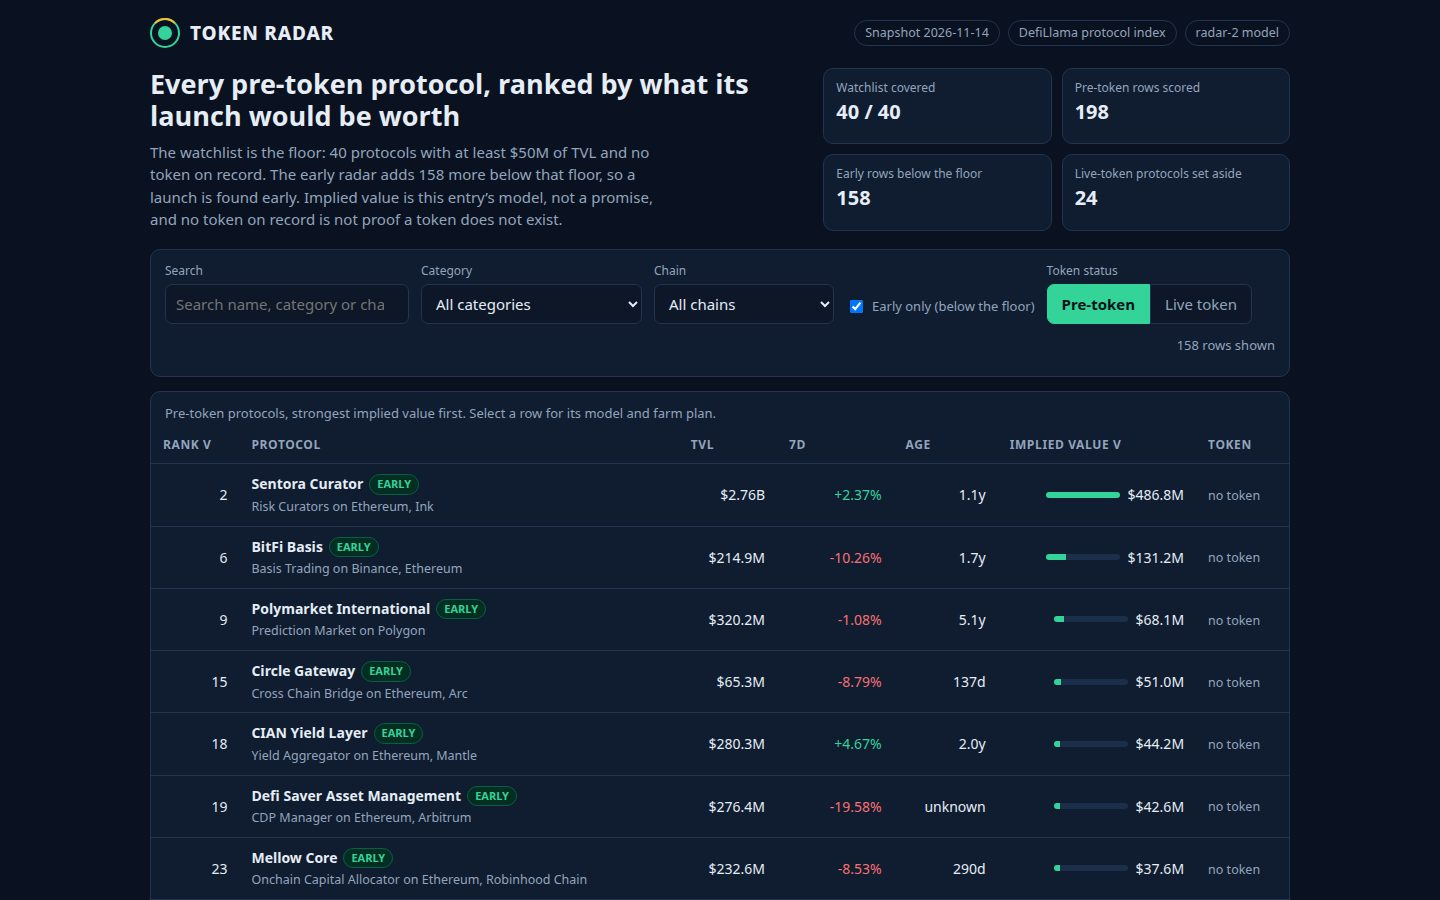
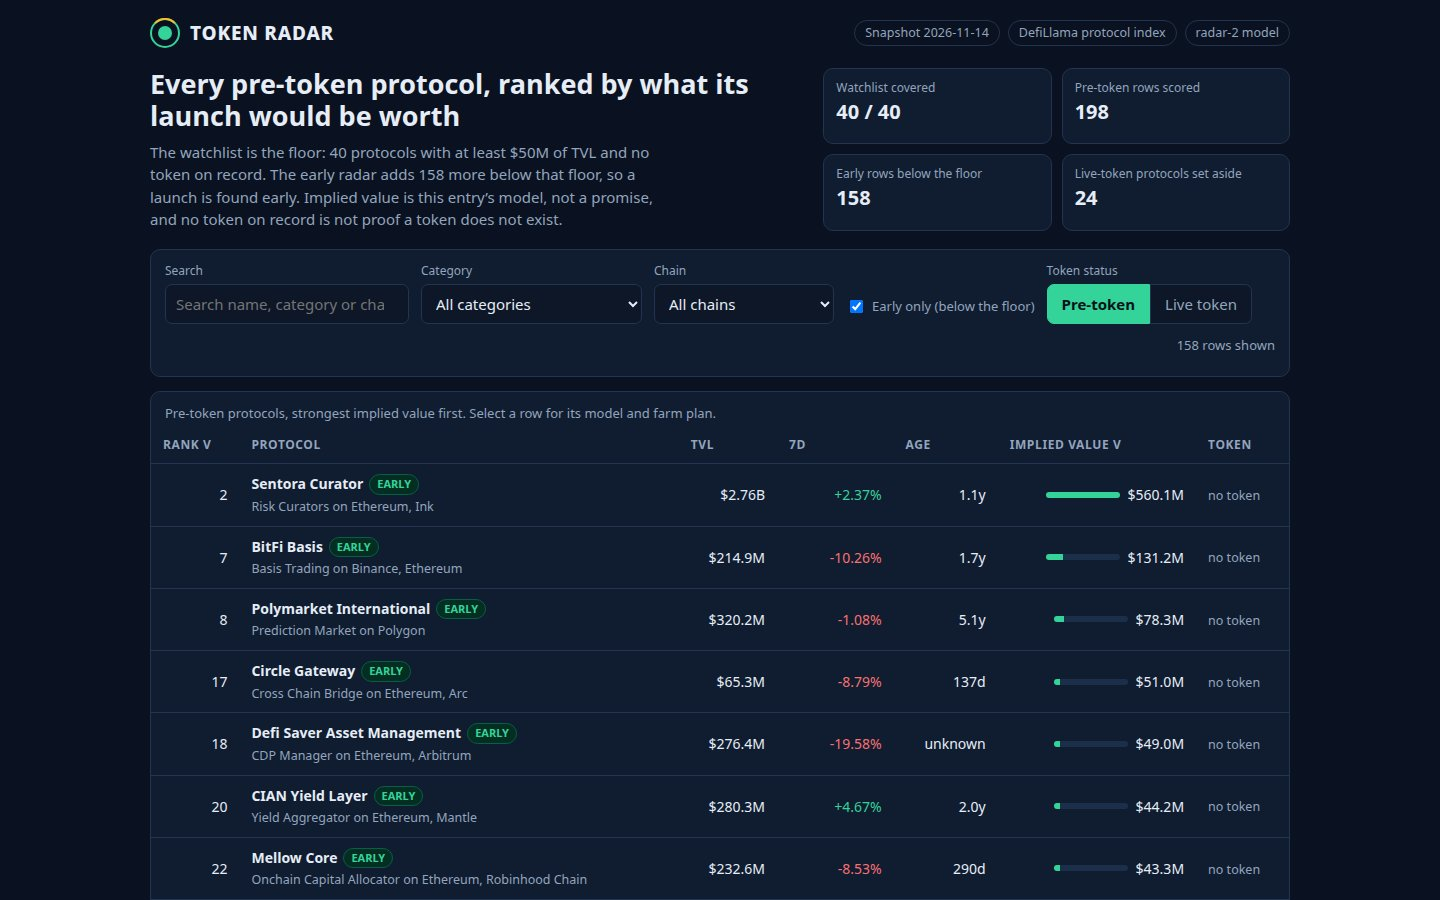
Token Radar radar-2: exclude CEX from category multiples; rewrite .gitignore; retake screenshots
- categoryMultiples() no longer prices pre-token protocols off centralised-exchange equity (one CEX ratio is 69x); global multiple 0.2138 -> 0.2460, live view already excluded CEX.
- .gitignore rewritten: build output, Playwright/gatecheck scratch, node_modules, editor/OS files, local secrets.
- Screenshots retaken against the new board so the shown implied values match data.js.

diff --git a/lib/model.ts b/lib/model.ts
@@ -10,8 +10,9 @@
 //
 //   catMult  = median(mcap_usd / tvl_usd) over the live-token protocols of the same category
 //              (at least 3 of them, else the global median over all live-token protocols),
-//              clamped to [0.05, 2.0]. A lending protocol is priced like lending protocols
-//              trade, a bridge like bridges trade.
+//              clamped to [0.05, 2.0]. Centralised exchanges are left out of both medians:
+//              they trade as exchange equity, not as DeFi protocols. A lending protocol
+//              is priced like lending protocols trade, a bridge like bridges trade.
 //   growth   = clamp(change_7d, -60, 120) per cent
 //   growthM  = 1 + (growth / 100) * 0.5
 //   maturity = 0.6 + min(age_days, 1095) / 1095 * 0.4   (age unknown: 365 days)
@@ -213,6 +214,10 @@ export function categoryMultiples(
   const perCategory = new Map<string, number[]>();
   const all: number[] = [];
   for (const p of snapshot.protocols) {
+    // Centralised exchanges trade as exchange equity, not as DeFi protocols: their
+    // market-cap-per-TVL (one is 69x here) must not price any pre-token category, and
+    // the live view already sets CEX aside for the same reason.
+    if (p.category === 'CEX') continue;
     if (p.mcap_usd === null || p.tvl_usd <= 0) continue;
     const ratio = p.mcap_usd / p.tvl_usd;
     if (!Number.isFinite(ratio) || ratio <= 0) continue;
